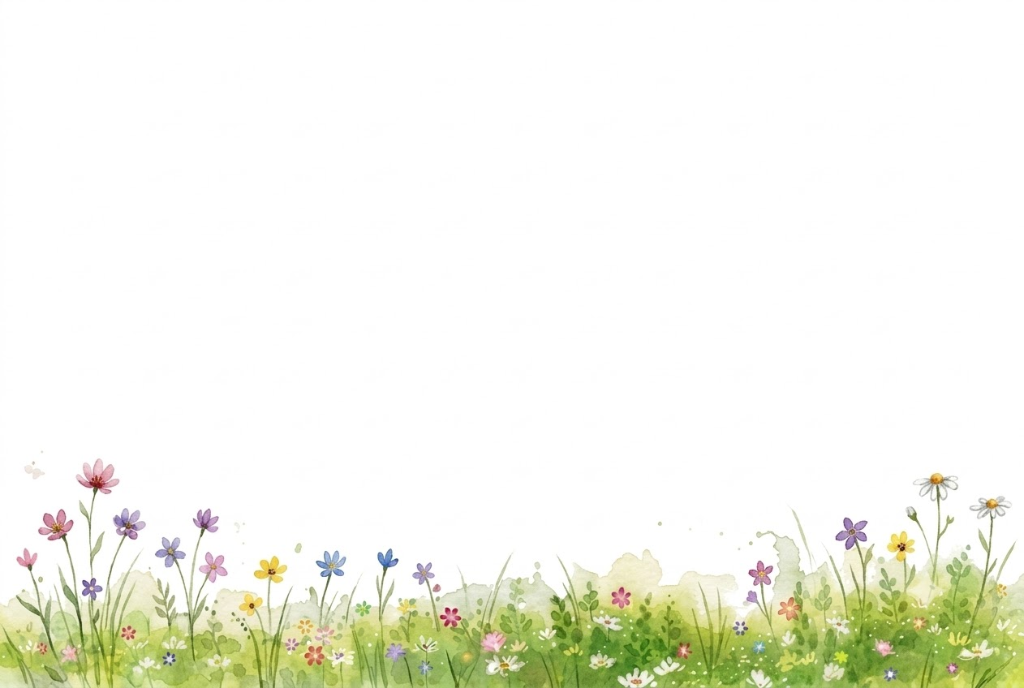
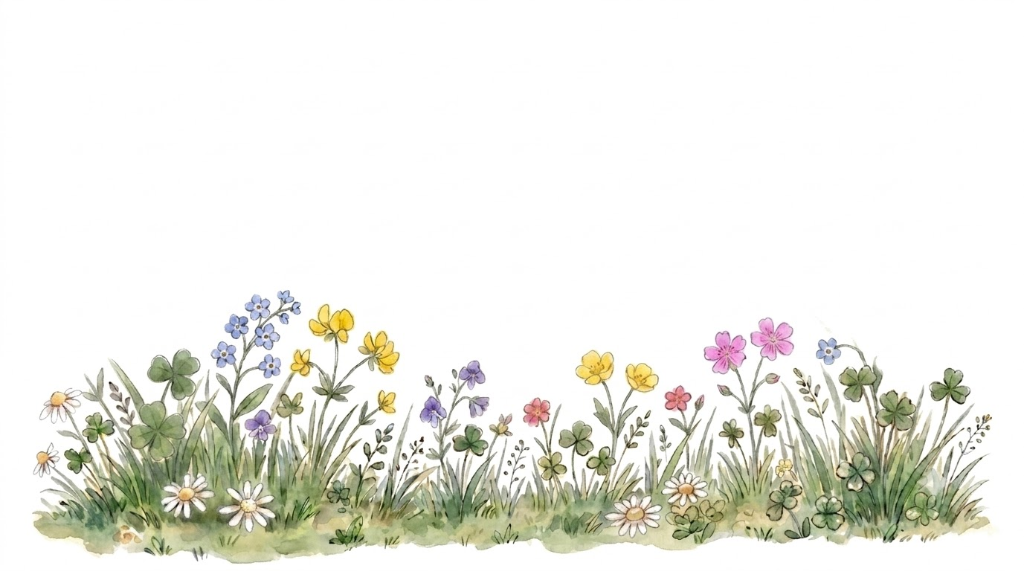
Update Hero section background with attached wildflower garden artwork

Changed region(s): [[0.0, 0.5061, 1.0, 1.0]]

diff --git a/index.html b/index.html
@@ -13,7 +13,7 @@
         href="https://fonts.googleapis.com/css2?family=Almendra:ital,wght@0,400;0,700;1,400;1,700&family=Cinzel+Decorative:wght@700;900&family=Cormorant+Garamond:ital,wght@0,500;0,600;0,700;1,500;1,600&family=Fondamento:ital@0;1&family=Fraunces:ital,opsz,wght@0,9..144,400..900;1,9..144,400..900&family=Outfit:wght@800;900&family=Playfair+Display:ital,wght@0,600;0,700;0,800;1,600;1,700&family=Plus+Jakarta+Sans:ital,wght@0,300..900;1,300..900&family=Space+Grotesk:wght@400;500;600;700;800&family=Syne:wght@700;800&family=Caveat:wght@600;700&display=swap"
         rel="stylesheet">
 
-    <link rel="stylesheet" href="css/styles.css?v=20260916_v43">
+    <link rel="stylesheet" href="css/styles.css?v=20260916_v44">
 </head>
 
 <body>
@@ -28,7 +28,7 @@
 
             <!-- Hero Wildflower Backdrop for GSAP Crossfade -->
             <div class="hero-forest-backdrop">
-                <img src="assets/images/hero_wildflower_bg.jpg?v=20260916_meadow_v2" alt="Watercolor colorful wildflowers, clovers and grass illustration" class="hero-forest-img">
+                <img src="assets/images/hero_wildflower_bg.jpg?v=20260916_wildflowers_v3" alt="Watercolor colorful wildflowers, clovers and grass illustration" class="hero-forest-img">
             </div>
 
             <!-- Header Fixed to Hero Section -->
